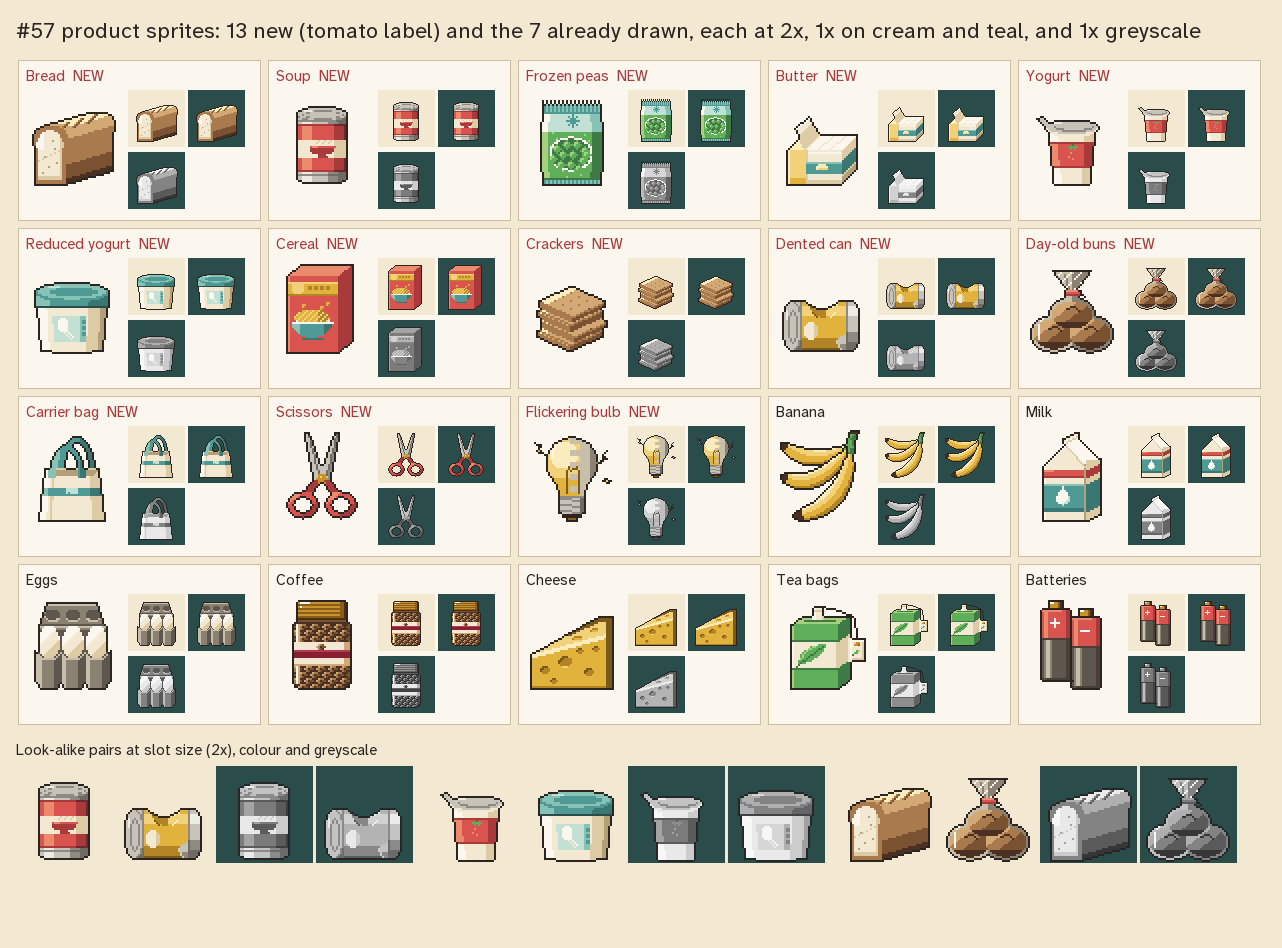
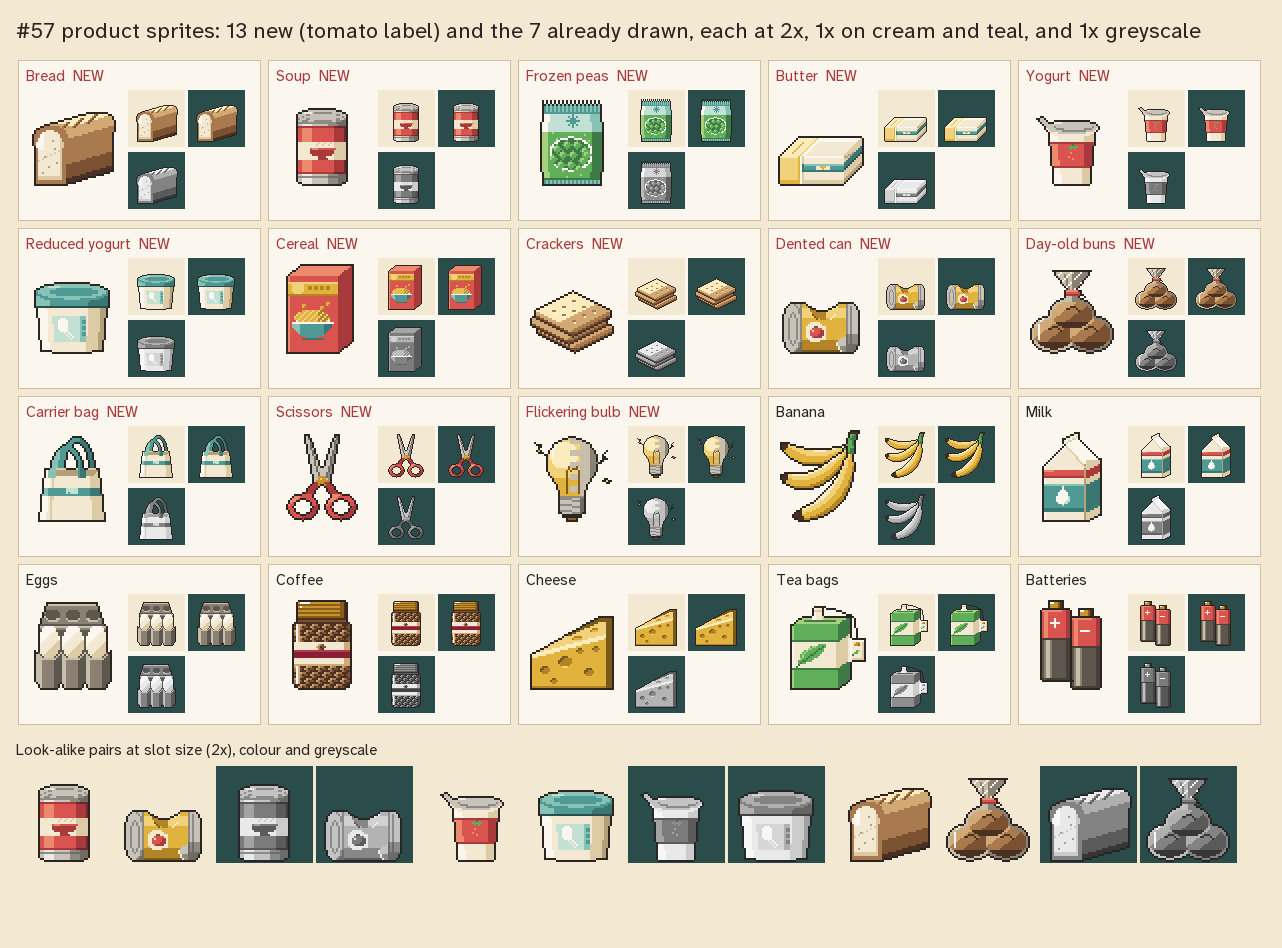
Redraw Butter, Dented can and Crackers after the #57 review
Butter is now a low wrapped block with the wrapper folded back over the
butter (it read as a tissue box), Dented can gets a tomato label and
ridged rims (it read as a battery), and Crackers is three thin crackers
with a docking grid (it read as toast). Soup, Crackers, Dented can and
Scissors now stand on the bottom row like every other item. The plan
says #57 was not timed one by one, so the phase 3 art budget still
waits on the user's review, and stops promising that #57 retires the
32x32 Milk. The sticker test's comment says it pins the layout, not the
pixels. The review capture, crops and contact sheet show the new art.

diff --git a/docs/art/mockups/products_57_review.html b/docs/art/mockups/products_57_review.html
@@ -85,7 +85,7 @@ ul { line-height: 1.5; padding-left: 20px; }
     <figure><div class="tile game"><img class="px" src="products_57_src/butter_hand.png" alt="Butter in the game"></div><figcaption>in game (hand basket)</figcaption></figure>
   </div>
   <p class="rule">€2 · +3 if beside a Bakery product</p>
-  <p class="note">Wrapped brick, one end torn open to show the butter.</p>
+  <p class="note">A low, long block under a paper wrapper with a teal band, the wrapper folded back at the left end over the pale butter (redrawn: the first draft read as a tissue box).</p>
 </article>
 <article class="card">
   <header><h2>Yogurt</h2><span class="tags">Food · Dairy · Breakfast</span></header>
@@ -129,7 +129,7 @@ ul { line-height: 1.5; padding-left: 20px; }
     <figure><div class="tile game"><img class="px" src="products_57_src/crackers_hand.png" alt="Crackers in the game"></div><figcaption>in game (hand basket)</figcaption></figure>
   </div>
   <p class="rule">€2 · +3 if beside Soup</p>
-  <p class="note">A stack of square crackers on the diagonal, with docking holes.</p>
+  <p class="note">Three thin square crackers stacked on the diagonal, the top one pale with a 3x3 grid of docking holes (redrawn: the first draft read as toast).</p>
 </article>
 <article class="card">
   <header><h2>Dented can</h2><span class="tags">Food · Clearance</span></header>
@@ -140,7 +140,7 @@ ul { line-height: 1.5; padding-left: 20px; }
     <figure><div class="tile game"><img class="px" src="products_57_src/dented_can_belt.png" alt="Dented can in the game"></div><figcaption>in game (belt)</figcaption></figure>
   </div>
   <p class="rule">€2 · +2 for each earlier Clearance product</p>
-  <p class="note">A tin lying on its side with a deep dent and a creased label: the dent is the joke.</p>
+  <p class="note">A tin lying on its side with a deep dent, a tomato on its label and ridged lid rims: the dent is the joke (redrawn: the first draft read as a battery).</p>
 </article>
 <article class="card">
   <header><h2>Day-old buns</h2><span class="tags">Food · Bakery · Clearance</span></header>

diff --git a/docs/FULL_BUILD_PLAN.md b/docs/FULL_BUILD_PLAN.md
@@ -215,12 +215,12 @@ Phase 2 (decided, v0.22): the 3 are Spot check ("the 3rd product pays 0"), Short
 1. **Style frame (phase 1):** one screen in the final style. Approve it before any other art production. Approved by the user on 2026-10-08 as the direction ("not perfect, but enough for a style frame"); it is iterated while the phase 3 assets are made. It was built as a debug scene on a fixed shift 3 of 8 (v1); v1 was deleted with its test once the real shift screen took its look (#55), and its captures stay in `docs/art/` (`style_frame_*.png`). **Style frame v2** (a debug scene, approved by the user on 2026-10-14 as "perfect for a first iteration") is the boutique look: a velvet wall, a valance and spotlights, a rubber belt on brass rails, a cabinet register with a gold LED and a TOTAL key, a receipt that grows into its pile, items at 48x48 with price-gun stickers, a hover scanner, scan popups and a purse. #55 took its look onto the real screen with cards; #75 replaced the cards with items, the hover scanner, the popups, the chips and the receipt stub; #80 replaced the boutique with mock-up B2's store (point 5) and dropped the purse (#76), the paper pile and the handheld scanner. #75 moved the price sticker, the scan popup, the scanner overlay and the effect chip into `ui/`, ported the scene's checks to the real screen (`tests/ui/captured_shift_test.gd`) and deleted the scene with its tests; its captures (`docs/art/style_frame_v2_*.png`) stay as the record. The real screen is captured by `debug/screen_capture/screen_capture.tscn`, which shows the real shift screen on fixed data (shift 5 of 8 on a fixed seed, under Short belt, with a fixed full hand of 8 items in its baskets and four items on the belt with their tickets and planning stickers, among them a product from each of the 6 aisles, the itemised planning receipt and a 4-box loyalty card with 3 stamps). It keeps the saves and logs in a temporary folder, and S switches the sharp-pixel shader for nearest filtering. `godot --path . [--resolution 1920x1080] res://debug/screen_capture/screen_capture.tscn -- --capture=docs/art` writes `shift_screen_1280x720.png` or `shift_screen_1920x1080.png` at the window's size; both were retaken for #80's B2 screen. With `--scan=<card id>` the scanner first fully scans that card's item (on the belt, else in the hand) and the file is `shift_screen_scan_<w>x<h>.png` (taken at 1920x1080 with `--scan=multipack`). With `--effects[=<card id>]` it shows #60's reference row under the Spot check with its planning stickers, halos, stamp, ticket pays and rail strips (#71, mock-up h1), and with a card id hovers that card's belt item and lets its scan finish, so the monitor explains it; the file is `shift_screen_effects_<w>x<h>.png`, or `shift_screen_effects_focus_<w>x<h>.png` when an item is hovered (taken at both sizes with `--effects` and `--effects=multipack`, and compared with h1's captures). The three `shift_screen_*.png` captures were retaken for #71, which shows stickers instead of corner discs in planning. With `--checkout=<seconds>` (#86) it presses CHECKOUT and captures that many seconds into the count-up; the file is `shift_screen_[effects_]checkout_<tenths>_<w>x<h>.png` (#86's in-game crops are `docs/art/mockups/count_up_86_v7_game_<t>.png`). #56 adds the other screens.
 2. **Art bible:** palette (cream paper, faded teal, tomato red, mustard yellow), outline thickness, shading rules, fonts (expressive packaging lettering · plain sans serif for rules · monospace for the receipt), icon set for tags. Decided with the user (v0.17), confirmed or changed by the style frame:
    - **Pixel art** on the 1280x720 canvas: 1 art pixel = 2 canvas pixels (a 640x360 grid; since #80 the back wall's stock and fixtures, `StoreShelves`, draw at 1 art pixel per canvas pixel, read as distance under the haze, so the 48 px items stock its shelves unchanged), drawn through a sharp-pixel shader so the count-up can still rotate and scale cards without shimmer. Snapping stays off. The shader keeps every art pixel's edges sharp and passes the node's modulate through as a vertex varying. Before #55 it multiplied the sample by the fragment's COLOR, which already held the texture, so every colour was squared and the art drew about gamma 2.2 too dark. The earlier captures (`style_frame_*.png`) predate the fix.
-   - **Sizes (decided with the user for #75 on 2026-10-15):** every item is a 48x48 grid shown at 2x (96x96), on the belt, in the baskets, as the drag ghost and in the offers, through `art_ref` (section 4): a product's sprite in `art/items_v2/`, a coupon's icon (`art/icons/coupon_<id>_v2.png`) on the shared slip (`art/items_v2/coupon_slip.png`). `tools/pixel_art.py` sizes a grid by its folder (`items_v2` is 48x48) and `live_cards_test` checks that every `art_ref` is 48x48. An undrawn product shows one 48x48 art-pending box (`art/icons/art_pending_v2.png`, a dashed box) with its name printed in it by code; an undrawn coupon shows the real slip with its name where the icon goes. At #75, 10 products and 2 coupons are drawn; #57 draws the other 13 products a new profile stocks (Bread, Soup, Frozen peas, Butter, Yogurt, Reduced yogurt, Cereal, Crackers, Dented can, Day-old buns, Carrier bag, Scissors and Flickering bulb), so all 20 have their sprite (`live_cards_test` reads the 20 from the starter deck and the base aisles' `base_cards`). The 32x32 Milk (`art/items/`) stays only for the frozen card fixture; renaming the `_v2` folders waits until #57 retires it. The deck view's plain cards (120x168, until #56) show no sprite. Frames are 9-slices whose edges and middle stretch (a tiled middle picks up neighbouring pixels at its seams once the canvas is scaled); a patterned frame is drawn at its full size.
+   - **Sizes (decided with the user for #75 on 2026-10-15):** every item is a 48x48 grid shown at 2x (96x96), on the belt, in the baskets, as the drag ghost and in the offers, through `art_ref` (section 4): a product's sprite in `art/items_v2/`, a coupon's icon (`art/icons/coupon_<id>_v2.png`) on the shared slip (`art/items_v2/coupon_slip.png`). `tools/pixel_art.py` sizes a grid by its folder (`items_v2` is 48x48) and `live_cards_test` checks that every `art_ref` is 48x48. An undrawn product shows one 48x48 art-pending box (`art/icons/art_pending_v2.png`, a dashed box) with its name printed in it by code; an undrawn coupon shows the real slip with its name where the icon goes. At #75, 10 products (7 of them stocked by a new profile) and 2 coupons are drawn; #57 draws the other 13 products a new profile stocks (Bread, Soup, Frozen peas, Butter, Yogurt, Reduced yogurt, Cereal, Crackers, Dented can, Day-old buns, Carrier bag, Scissors and Flickering bulb), so all 20 have their sprite (`live_cards_test` reads the 20 from the starter deck and the base aisles' `base_cards`). The 32x32 Milk (`art/items/`) stays only for the frozen card fixture; #57 did not retire it, so it and the rename of the `_v2` folders wait until the fixture moves to 48x48 (no issue owns that yet). The deck view's plain cards (120x168, until #56) show no sprite. Frames are 9-slices whose edges and middle stretch (a tiled middle picks up neighbouring pixels at its seams once the canvas is scaled); a patterned frame is drawn at its full size.
    - **Palette:** 67 colours in ramps of ink, grey, cream, teal, tomato, mustard, brass/gold and velvet, plus green and brown for food, and since #80 mock-up B2's steel, rubber, wood, plaster, glass, slate, basket teals and skin; at most 12 per item. A 1 px ink outline, light from the top left, hard shading bands, no anti-aliasing, no dithering on anything that moves. The ink is a warm #2b2420.
    - **Fonts** (SIL OFL 1.1, licence texts in `fonts/`): Pixelify Sans for titles, signs and buttons; Atkinson Hyperlegible Next for rules, tags and tooltips, and at weight 750 (an MSDF-imported copy, so the count-up's slams stay sharp) for every number and price, since Pixelify's € and 2 read poorly; JetBrains Mono for the receipt. Every font must have the glyphs the game prints (€, ×, ·, —, …, and the capacity line's minus sign −); a test checks every character the shift screen prints against the font that prints it. Atkinson has no "→"; the one body text that printed it (the "Scanned left to right →" cue) went with #80, so no text needs the fallback.
    - **Sources:** each sprite is a palette-indexed text grid in `art/src/` (ignored by Godot), turned into indexed PNGs by `tools/pixel_art.py` (Python standard library), which also lints the sources and writes contact sheets at 1x, 2x and 4x, in greyscale and as silhouettes. A source can be generated: `tools/belt_art.py` (#80, standard library, tested by `tools/belt_art_test.py`, `--check` fails on a stale source) writes the belt's perspective top face (`scenery/belt_top`) from B2's vanishing point, and its 9 scroll frames (`scenery/belt_top_scroll/belt_top_02` to `_18`, its slats 2 to 18 px further left, #83); those files are never edited by hand. A retired asset's source, PNG and `.import` are deleted once nothing references it, and its row in `art/src/production_log.tsv` stays with a note saying so. `art_ref` holds the PNG's `res://` path.
-3. **Production rules:** packaging must stay recognisable at slot size. Colour is never the only signal (always an icon or a label too). Brands are fictional. One sprite per item, reused on the belt, in the baskets, in the offers, in the run intro, as the capsule figurine and on the figurine shelf. It must read at 96x96 on the counter and at drag and flying size. Coupons are the shared gold-edged paper slip with its perforation, plus one icon. Non-food items are small everyday goods, so scale stays believable. With fictional brands, silhouettes carry recognition, not lettering. Decided with the user for #57 (2026-10-21): the Clearance products carry no shared "reduced" mark (the Clearance tag coupon can make any product Clearance while scoring); damage shows only where the name is the joke (Dented can's dent, Flickering bulb's half-dead glass, Day-old buns' dry, cracked look). A sprite keeps its ticket clear: `item_view_test` checks that no sprite's opaque pixels reach its price sticker, on the belt and in the tray, at rest and lifted. The look-alike pairs differ by shape, not colour alone (Soup an upright tin, Dented can a tin lying on its side; Yogurt a small tapered pot, Reduced yogurt a wide squat tub; Bread a loaf with its cut end, Day-old buns three buns in a tied bag). Carrier bag is an open cream bag with teal loop handles, unlike the hand's teal baskets. No sprite needs a colour outside the palette.
-4. **Who makes the art (decided, v0.17):** the coding agent draws all of it, in the pixel-art sources above, and the user reviews every asset. The style frame times one item sprite (Milk): the agent's minutes, the review rounds and the user's review minutes, logged in `art/src/production_log.tsv` (Milk: about 2 agent minutes, 1 review round, about 2.5 user minutes). The user's review minutes per item set the phase 3 budget. A carton is an easy shape, so the first 3 sprites of phase 3 are timed again.
+3. **Production rules:** packaging must stay recognisable at slot size. Colour is never the only signal (always an icon or a label too). Brands are fictional. One sprite per item, reused on the belt, in the baskets, in the offers, in the run intro, as the capsule figurine and on the figurine shelf. It must read at 96x96 on the counter and at drag and flying size. Coupons are the shared gold-edged paper slip with its perforation, plus one icon. Non-food items are small everyday goods, so scale stays believable. With fictional brands, silhouettes carry recognition, not lettering. Decided with the user for #57 (2026-10-21): the Clearance products carry no shared "reduced" mark (the Clearance tag coupon can make any product Clearance while scoring); damage shows only where the name is the joke (Dented can's dent, Flickering bulb's half-dead glass, Day-old buns' dry, cracked look). A sprite keeps its ticket clear: the sticker sits below the 96x96 sprite box, so no drawing can reach it, and `item_view_test` pins that layout for every card (its art box misses the sticker on the belt and in the tray, at rest and lifted). The look-alike pairs differ by shape, not colour alone (Soup an upright tin, Dented can a tin lying on its side; Yogurt a small tapered pot, Reduced yogurt a wide squat tub; Bread a loaf with its cut end, Day-old buns three buns in a tied bag). Carrier bag is an open cream bag with teal loop handles, unlike the hand's teal baskets. No sprite needs a colour outside the palette.
+4. **Who makes the art (decided, v0.17):** the coding agent draws all of it, in the pixel-art sources above, and the user reviews every asset. The style frame times one item sprite (Milk): the agent's minutes, the review rounds and the user's review minutes, logged in `art/src/production_log.tsv` (Milk: about 2 agent minutes, 1 review round, about 2.5 user minutes). The user's review minutes per item set the phase 3 budget. A carton is an easy shape, so the first 3 sprites of phase 3 are timed again. Not done yet: #57's 13 sprites were drawn as one batch while the user was away, not timed one by one (their log rows share one window and estimate the agent minutes), and the user has not reviewed them, so there are no measured times and no phase 3 budget yet; it waits on the user's review minutes for #57 (or on timing 3 sprites before #58).
 
 5. **Shared UI kit and the shift screen (phase 3, #55, decided with the user in v0.32; items and the scanner since #75, v0.33; mock-up B2's store since #80, v0.34, decided with the user on 2026-10-16; mirrored since #83, v0.35, approved by the user on 2026-10-18):**
    - **Kit:** `UiKit` helpers, not a `Theme` resource. They cover frame panels (9-slices), sprites, tiled fills, framed buttons and labels by font role: `display_label` for signs, buttons and titles; `body_label` for rules, tag lines, notices and hints; `number_label` for every number and price, including the monitor's digits, and for the loyalty card's stamp initials; `receipt_label` for the receipt. The kit also holds the notice style (tomato body text; the shift screen's notices print in ink on the monitor, the other panels follow in #56). The shift screen's stage and overlay take `UiKit.screen_theme()`, whose default font is the number font, so text there without a font of its own (the count-up's flying numbers) prints in it. The theme stays off the screen's root, so the panels #56 restyles and the debug panel keep the plain default font. The sharp-pixel material goes only on art, never on a Label or a Button's text. `ShiftDebug` stays plain.
@@ -508,4 +508,4 @@ Content freeze at the end of phase 3. No new features after that.
 | v0.35 | 2026-10-18 | The mirrored shift screen and the running belt (phase 3, issue #83), approved by the user on 2026-10-18 from `docs/art/mockups/shift_screen_b2_mirrored.html` (section 6.1); playtest-facing, no rule change · the register, the printer with its receipt and the cashier move to the left and the belt runs toward them: slot 1 is the slot next to the register, and the slots and the hand still read 1 → 7 left to right · only the layout is mirrored: the vanishing point stays at (640, −1600) and the light at the upper left; text, icons, item art and the cashier are moved, never flipped · the belt's top face is regenerated for its new place (`tools/belt_art.py`), and the apron gets three left-pointing chevrons under each ticket (new `belt_chevrons`) · the printer's light and paper-feed button and the drawer's lock move to the register's outer side and the keypad's seam to its left (sources edited, light unchanged); Redraw keeps its left edge · the back wall's fixtures swap sides (cold cases at the right, the fruit & veg stand by the cashier, the pillar at the left), the lamp and its warm pool stay at the upper left · the reward print-out sits right of the receipt and the shade spares the register column at the left · second step, the belt runs (decided with the user on 2026-10-18: the slats scroll and the items stay, still in planning, no sound): from the CHECKOUT click to the held breath before TOTAL the slats scroll left at the count's speed (`belt_px_per_second` 60, capped at `belt_max_px_per_second` 240, new in `data/balance/count_up.tres`), stopping in hit-stops and running under reduced motion; `tools/belt_art.py` bakes 10 frames (`belt_top` and `belt_top_scroll/belt_top_02` to `_18`); timing unchanged · balance note: the 2 redraws of v0.34 lift `greedy@sensible` to 60.5% of runs won (34.5% before; the 40% main-build bar warns, Coupon specialist 48.8%), against the 35–40% target of section 8; the user accepted it for now on 2026-10-18, to revisit in a later balance pass |
 | v0.36 | 2026-10-18 | Planning effects (phase 3, issue #71; `docs/PROTOTYPE_PLAN.md` v0.35): mock-up h1, approved by the user on 2026-10-18 as "perfect", replaces the first build's chips after the user's play test found them flat, with floating numbers and unreadable links (sections 6.1, 6.2 and 12; `docs/art/mockups/README.md`, build spec `docs/art/mockups/planning_effects_src/H1_BUILD_SPEC.md`); playtest-facing, no rule change · one effect graph (`EffectGraph`) built from the preview's steps by one matcher (`EffectLinks`, now also behind the count-up's landings and spent tokens, behaviour unchanged) feeds a pure `PlanningModel` drawn on `PlanningLayer`; the UI computes nothing; tuning in `data/balance/planning.tres` · stickers stacked upward on each belt item in apply order (cream "+3", gold "×3" starburst, teal "=€6", grey "pfff"), each with its giver's badge (product, coupon or loyalty initials; none for the item's own rule), folding into "…+N" under a ceiling; the corner disc hidden in planning (it stays in the count-up and on a resumed checkout) · the ticket's base price struck and the pay on a gold burst, a cream tag or a tomato "€0" tag (warning or fizzle glyph) · a boosted item raised in a 1 to 3 ring pixel halo (×5 and ×20 of its base) · a denied item greyed under a "€0 / SPOT CHECK" rubber stamp · brass rail strips along the belt lip from each giver's ticket to its targets, with name plates, chevrons and notches (no factor badges: after the user's play test of the h1 build on 2026-10-19 the factor shows only as the target's sticker), in two lanes when they overlap · a sticker key on the monitor's brief · hover: the giver's strip turns gold with each target's gain standing on the target, only its stickers stay lit, the rest fades, the loyalty boxes or inspection chip acting on it are ringed, the receipt marks its targets' lines and names it in the footer ("hover an item" replaces "rest on an item"), denied lines show the warning icon, and (the same play test) its PROJECTED total is green with the met check at or over the quota and red under it with "short €N.00" on the row under it, and its scan opens with a gives line · while dragging, the stickers follow the landing slot, the strips hide and the QUOTA chip shows the would-be total and its change ("› €52 (+6)"), from the new `RunState.preview(card, slot)`, never logged · no effect badges on the top bar · everything clears at the CHECKOUT click; the count-up adopting the stickers is a later option · a slap on new stickers, a stepped halo and one chevron step, nothing under reduced motion and nothing looping · "›" replaces "→", which the fonts lack · unmet adjacency and earlier-tag conditions stay silent until #45 · `screen_capture` gains `--effects[=<card id>]` (`docs/art/shift_screen_effects_*.png`), and `docs/art/shift_screen_*.png` are retaken |
 | v0.37 | 2026-10-20 | The scan count-up, the SPEND gauge and the € tank (phase 3, issue #86), decided with the user on 2026-10-19 and 2026-10-20 from mock-ups v4 (gauge TA), v6 (`docs/art/mockups/count_up_86_v6_scan.html`, "perfect with a lighter red") and v7 (`count_up_86_v7_bay.html`, "the 3 together feel really good") (sections 3, 6.1, 6.2 and 12); playtest-facing, no rule change · the scan: the scanner is the row's first cell (a glass plate on the belt, new `scanner_plate`); before each item's first beat a 200 ms ride (`ride_ms`, never fitted) slides the items one cell toward it while the item scanned before hops into a paper bag on the counter (new `PaperBag`, `bag_back` and `bag_front`, "THANK YOU" baked in; `bag_ms` 300, overlapping the pause before the total); the belt ride (`BeltRide`) plays it on the count-up's tweens; the belt moves only during the rides; a resumed checkout shows an empty belt and a full bag · the planning stickers (and a denied item's stamp) stay on the items through the count and fire as their steps land (a punch, a flash, a green check); an armed giver sends gold sparks to its targets' stickers (`GiverSparks`); the rest of planning's effects clear at the click · a payout's paper "+€N" chip flies from the scanner to its receipt line, which fades in as it lands (`ReceiptFly`; the receipt is unchanged) · the count-up's tokens, dimmed target markers and pips (`EffectTokens`, `EffectMarker`), the belt's corner discs and paid chips in the count and the "✓ QUOTA" chip (`QuotaChip`) are removed; the quota ding's hit-stop grows from 100 to 500 ms and the count-up says `quota_met` · the top bar's QUOTA chip becomes SPEND "€N+" (also on the monitor's brief; the LED's compact quota line says it too, but it is blank wherever that layout shows; code, data, the receipt's "OVER QUOTA" / "ON QUOTA" and the title blurb keep "quota"), with a liquid gauge coloured by status (tomato while short, brass from 80 %, money green once met, gold past the flag; the user's idea, overriding tomato for fizzles only; `GREEN_LIGHT` added), a flag planted at the quota (`QuotaFlag`) and the gauge re-scaling past it, a slosh, drops, bubbles and a shine · the monitor's count view replaces #80's subtotal row: the scanner bay (`ScannerBay`: TALLY, a swing tag counting the item's worth from `ScoreStep.value_after` and a gold "+€N" chip per payout into the number, `BayTag`, `TallyChips`; ALIVE, the item dropping in, a laser fan and a visual BEEP!, wobbling as each step's sticker slaps on, sliding out to the bag, `BayBed`; QUEUE, "n LEFT", LAST, DONE and a pip per item, `BayQueue`), the running total in gold digits with no € and a "€N to go" line hidden at the quota, and a big € tank (`EuroTank`, new `euro_tank` art) filling with gold to the quota, its inside in the status colour, fed by a pour from the number 0.2 s after each chip lands; at the quota the tank bursts (`TankBurst`: jets, coins on the belt, splashes, a shake), a sunburst behind the view turns mustard and spins (`Sunburst`, a shader), the bay turns green, the SPEND MET stamp slams (`MetStamp`) and a "+€N" tab comes onto the tank (`OverTab`), punched by each later payout; reduced motion keeps every state · tempo: the user found the count a bit fast, so it plays 25 % slower through one tuning value, `count_tempo` 0.8 in `data/balance/count_up.tres` (`CountUpPlan.count_speed` = the auto speed-up × the speed setting × the tempo; the logged `base_speed` leaves the tempo out; hit-stops, the pause before the total, the dessert and the real-time effects keep their times; `fit_target_ms` 5,500 → 6,500 for the rides → 8,125; budget about 5–8.75 s; shift 1 runs at ×0.8, shift 3 on at ×1.0); a clamp in `CountUp._speed()` that would have raised the speed to 1 is fixed · `screen_capture` gains `--checkout=<seconds>`; in-game crops in `docs/art/mockups/count_up_86_v7_game_*.png` · known gaps, flagged for the user: the belt's slats lag the slide (`BeltPanel` scrolls at most 8 px a step), Bread has no art and shows its "art pending" box in the bay, the number's punch briefly spills over the bay, and Pixelify sizes off the 12 px grid may smear |
-| v0.38 | 2026-10-21 | Item sprites for the 20 products a new profile stocks (phase 3, issue #57), answers from the user (section 6.1); playtest-facing, no rule change · 13 new 48x48 sprites in `art/src/items_v2/` (Bread, Soup, Frozen peas, Butter, Yogurt, Reduced yogurt, Cereal, Crackers, Dented can, Day-old buns, Carrier bag, Scissors, Flickering bulb) with their `art_ref`, so no stocked product shows the art-pending box · no shared "reduced" mark on Clearance products, damage only where the name is the joke · sprites keep the ticket clear (a geometry test on every sprite) · the existing palette only · each sprite has a production-log row; the review is the contact sheet `docs/art/mockups/products_57_contact.png` and `products_57_review.html` · Coffee and Tea bags keep their art |
+| v0.38 | 2026-10-21 | Item sprites for the 20 products a new profile stocks (phase 3, issue #57), answers from the user (section 6.1); playtest-facing, no rule change · 13 new 48x48 sprites in `art/src/items_v2/` (Bread, Soup, Frozen peas, Butter, Yogurt, Reduced yogurt, Cereal, Crackers, Dented can, Day-old buns, Carrier bag, Scissors, Flickering bulb) with their `art_ref`, so no stocked product shows the art-pending box · no shared "reduced" mark on Clearance products, damage only where the name is the joke · sprites keep the ticket clear (the sticker sits below the sprite box; a layout test per card) · not timed one by one (a batch while the user was away), so section 6.1 point 4's measured times and the phase 3 art budget still wait on the user's review · the existing palette only · each sprite has a production-log row; the review is the contact sheet `docs/art/mockups/products_57_contact.png` and `products_57_review.html` · Coffee and Tea bags keep their art |
